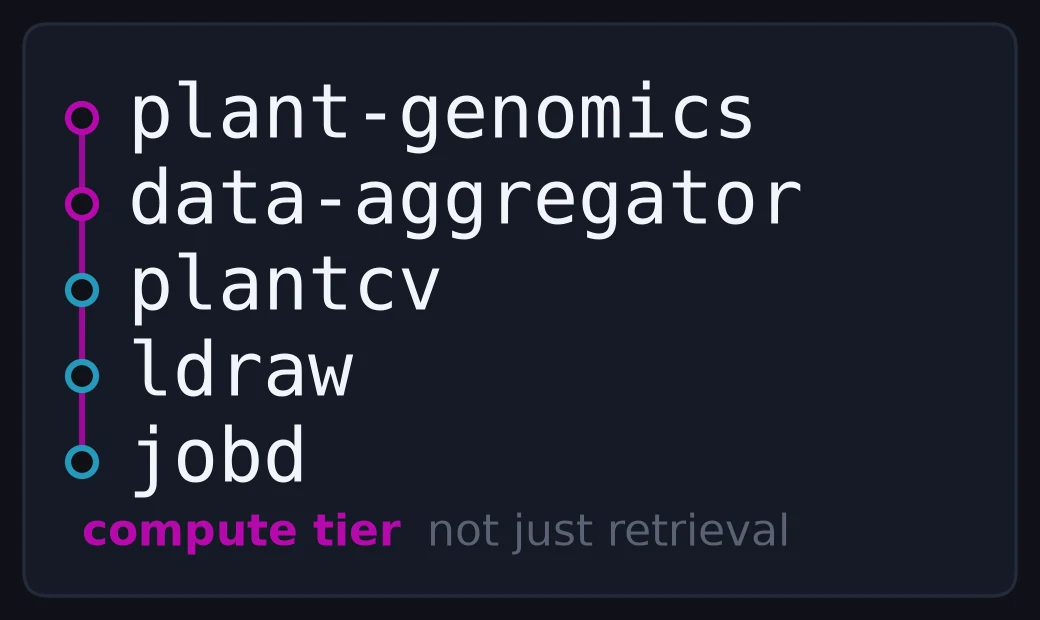
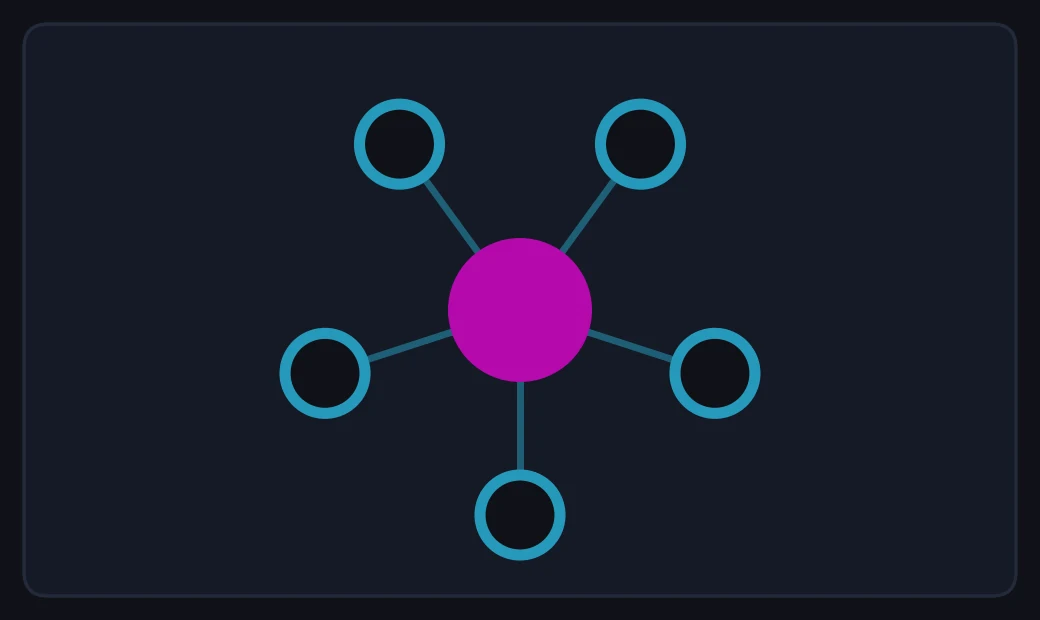
projects: simplify the MCP card to a mark, drop the text
The listed-names version read as a decorated list rather than a mark. The card
already renders its own title and description directly beneath the image, so any
text in the image is duplication — that was the actual problem, not the styling.

Now: one hub, five spokes. One protocol, five servers, and nothing else.

This also retires the two failure modes the earlier versions kept fighting — the
clipped subtitle (v1) and the overlapping footer strings (v2) simply cannot occur
when there is no type in the figure.

Smaller too: 12K, down from 28K.

Verified in the build: grid renders 2 card images, MCP srcset resolves to
/assets/img/mcpservers/card.webp, `npx prettier . --check` passes.

Claude-Session: https://claude.ai/code/session_01Wc3HVjVSrZZE7jAmbhdAgZ

Changed region(s): [[0.0615, 0.1226, 0.7692, 0.9194], [0.0615, 0.1532, 0.0923, 0.7968]]

diff --git a/bin/make_mcp_card.py b/bin/make_mcp_card.py
@@ -1,22 +1,19 @@
 #!/usr/bin/env python3
-"""Card image for the MCP Servers page - v3.
+"""Card image for the MCP Servers page.
 
-Iteration log, because each fix came from looking at the render at its ACTUAL
-display size (~350px wide in the 3-column grid), not at the 1200px canvas:
+No text: the card renders its own title and description directly beneath the
+image, so anything written here is duplication. An earlier version listed the
+five server names and read as a decorated list rather than a mark.
 
-  v1  designed like a slide. Subtitle ran off the canvas, type illegible at
-      350px, dead band between copy and the server row.
-  v2  vertical list fixed legibility, but the two footer strings OVERLAPPED -
-      the second was placed at a hard-coded +250px offset instead of being
-      measured, and "compute tier" is wider than that at 34pt.
-  v3  footer position is MEASURED from the rendered extent of the first string;
-      canvas tightened and type enlarged so the list fills the frame instead of
-      leaving half the card empty.
+The figure is one hub with five spokes - one protocol, five servers - which is
+the whole idea, and it stays legible at the ~350px the card actually renders at
+in the 3-column grid.
 
-Palette from the site's own _sass/_variables.scss: purple #b509ac is the
-light-theme --global-theme-color, cyan #2698ba the dark-theme one.
+Palette from the site's own _sass/_variables.scss, so it belongs to the site in
+either theme: purple #b509ac is $purple-color (light-theme
+--global-theme-color), cyan #2698ba is $cyan-color (dark-theme).
 """
-import signal, sys
+import signal, sys, math
 signal.signal(signal.SIGALRM, lambda *_: (sys.stderr.write("aborting: walltime guard\n"), sys.exit(2)))
 signal.alarm(90)
 
@@ -27,36 +24,21 @@ from matplotlib.patches import Circle, FancyBboxPatch
 
 W, H, DPI = 1040, 620, 100
 BG, PANEL = "#0f1117", "#151925"
-PURPLE, CYAN, DIM, FG = "#b509ac", "#2698ba", "#5a6274", "#f2f5fa"
+PURPLE, CYAN = "#b509ac", "#2698ba"
 
-fig = plt.figure(figsize=(W / DPI, H / DPI), dpi=DPI, facecolor=BG)
+fig = plt.figure(figsize=(W/DPI, H/DPI), dpi=DPI, facecolor=BG)
 ax = fig.add_axes((0.0, 0.0, 1.0, 1.0)); ax.set_xlim(0, W); ax.set_ylim(0, H); ax.axis("off")
-MONO = {"family": "DejaVu Sans Mono"}; SANS = {"family": "DejaVu Sans"}
-
-ax.add_patch(FancyBboxPatch((24, 24), W - 48, H - 48,
+ax.add_patch(FancyBboxPatch((24, 24), W-48, H-48,
     boxstyle="round,pad=0,rounding_size=24", facecolor=PANEL,
     edgecolor="#232a3a", linewidth=2.5, zorder=0))
 
-rows = [("plant-genomics", PURPLE), ("data-aggregator", PURPLE),
-        ("plantcv", CYAN), ("ldraw", CYAN), ("jobd", CYAN)]
-
-top, row_h, bar_x, fs = H - 118, 86, 82, 54
-ax.plot([bar_x, bar_x], [top - row_h * (len(rows) - 1) - 8, top + 8],
-        color=PURPLE, lw=4.5, alpha=0.85, zorder=1)
-
-for i, (name, accent) in enumerate(rows):
-    y = top - i * row_h
-    ax.add_patch(Circle((bar_x, y), 14, facecolor=BG, edgecolor=accent, linewidth=4.5, zorder=3))
-    ax.text(bar_x + 46, y, name, color=FG, fontsize=fs, va="center", ha="left", **MONO)
-
-# Footer: MEASURE the first string, then place the second after it. v2 hard-coded
-# the offset and the two collided.
-fig.canvas.draw()
-t1 = ax.text(bar_x, 86, "compute tier", color=PURPLE, fontsize=32,
-             fontweight="bold", va="center", ha="left", **SANS)
-ext = t1.get_window_extent(renderer=fig.canvas.get_renderer())
-x2 = ax.transData.inverted().transform((ext.x1, 0))[0] + 26
-ax.text(x2, 86, "not just retrieval", color=DIM, fontsize=32, va="center", ha="left", **SANS)
+cx, cy, R = W/2, H/2, 205
+for i in range(5):
+    a = math.radians(-90 + i*72)
+    x, y = cx + R*math.cos(a), cy + R*math.sin(a)
+    ax.plot([cx, x], [cy, y], color=CYAN, lw=5.0, alpha=0.55, zorder=1)
+    ax.add_patch(Circle((x, y), 40, facecolor=BG, edgecolor=CYAN, lw=8, zorder=3))
+ax.add_patch(Circle((cx, cy), 72, facecolor=PURPLE, edgecolor="none", zorder=4))
 
 out = sys.argv[1] if len(sys.argv) > 1 else "card.png"
 fig.savefig(out, facecolor=BG, dpi=DPI)
